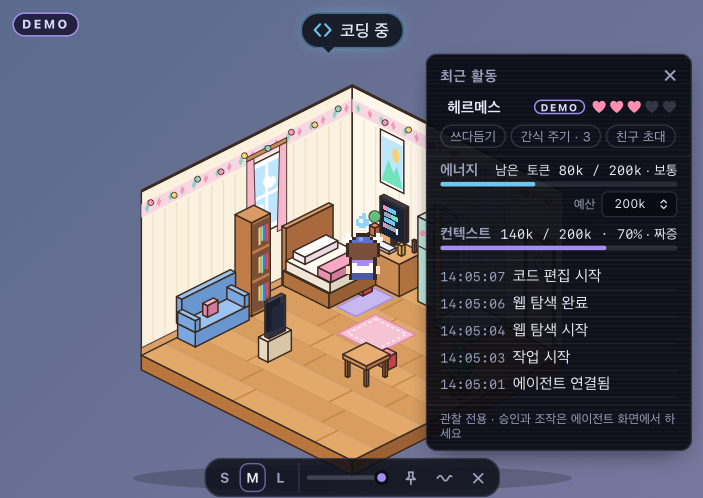
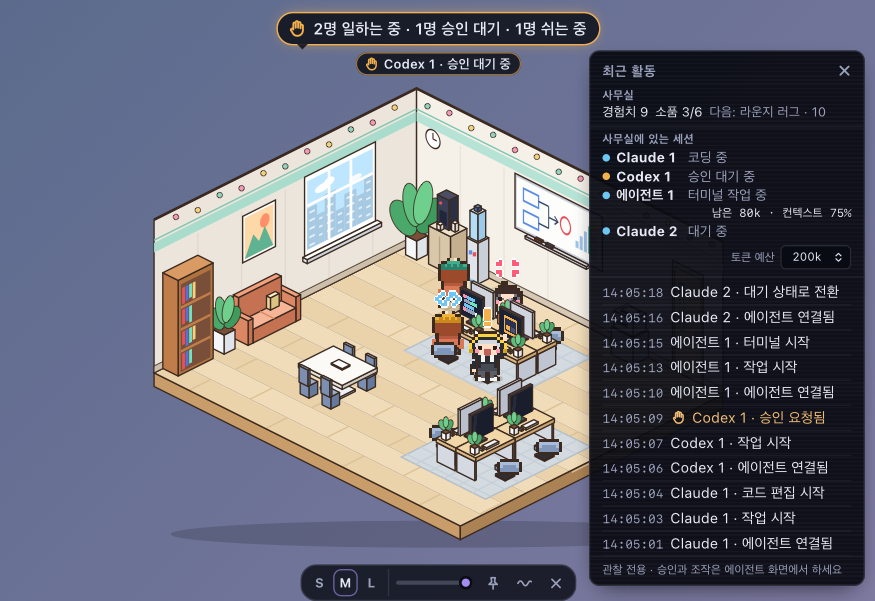
docs: the office society — README, images, state (T81)
- README rewritten around the office: sessions as employees, lounge,
  conversations, summary bubble, per-session energy/anger, office
  growth, Claude Code connection; new images rendered from the real
  OfficeRoom/App markup (pet-care image removed)
- PROJECT_STATE: M12 done, verify 1443 tests + 21 Rust tests, native
  check of the office with this Claude Code session at desk 1

diff --git a/README.md b/README.md
@@ -1,44 +1,34 @@
 # Deskling
 
-AI 에이전트가 실제로 일하는 모습을 바탕화면에 박힌 밝은 아이소메트릭 픽셀 미니룸 속 펫 "헤르메스"의 모습으로 보여주는 macOS 데스크톱 앱.
+AI 에이전트 세션들이 실제로 일하는 모습을, 바탕화면에 박힌 작은 아이소메트릭 픽셀 **사무실**의 직원들로 보여주는 macOS 데스크톱 앱.
 
-> **상태:** MVP 화면(11개 상태, 활동 패널, 창 설정), 생활감(에너지·화남), 키우기, 미니룸(헤르메스의 일상), **세션 친구**(Claude·Codex 세션마다 친구 한 명, 세션 사이 대화)가 동작한다.
-> **Claude Code는 실제로 연결된다**(훅 → 앱, 동의 후 설치). Hermes·Codex의 실제 연결은 아직이며, 그 부분은 결정적 **데모**("방 친구들")로 보여준다. 데모가 보이는 동안에는 항상 `DEMO` 배지가 표시된다.
+> **상태:** 사무실 사회(세션마다 직원 한 명), 세션 사이 대화, 사무실 성장, 활동 패널, 창 설정이 동작한다.
+> **Claude Code는 실제로 연결된다**(훅 → 앱, 동의 후 설치). Codex·Hermes 등의 실제 연결은 아직이며, 그 부분은 결정적 **데모**("사무실 하루")로 보여준다. 데모가 보이는 동안에는 항상 `DEMO` 배지가 표시된다.
 > 진행 상황과 검증 기록은 [PROJECT_STATE.md](PROJECT_STATE.md)에 있다.
 
-![헤르메스의 방 — 샤워하는 헤르메스와 일하는 친구, 세션끼리 대화, 승인 대기·오류 알림, 잠든 헤르메스와 밤샘하는 친구](docs/images/room-moods.png)
+![사무실 — 책상에서 일하는 직원들, 라운지, 도우미 봇, 해금된 소품](docs/images/room-moods.png)
 
-헤르메스의 사생활을 엿보는 미니룸. 헤르메스가 쉬는 동안에도 Claude·Codex 세션 친구들은 자기 방석에서 일하고(왼쪽 위), 세션끼리 메시지를 보내면 서로 돌아보며 이야기하고(오른쪽 위), 승인을 기다리는 친구는 일어나 손을 흔든다(왼쪽 아래). 헤르메스가 연결되어 있지 않으면 불 끄고 자고, 친구는 밤샘한다(오른쪽 아래).
+세션 하나가 직원 한 명이다. 일하는 세션은 자기 책상에서 모니터를 보고, 승인을 기다리면 일어나 손을 흔들고, 쉬는 세션은 라운지로 간다.
 
 ## 무엇을 하나
 
-- 투명하고 프레임 없는 창에 밝은 아이소메트릭 픽셀 미니룸(크림색 벽, 나무 바닥, 침대·컴퓨터 책상·샤워 부스·냉장고·식탁·TV·소파·책장·문)을 띄우고, 그 안에서 펫 헤르메스가 걸어 다닌다.
-- 에이전트 이벤트를 받아 `offline`, `idle`, `thinking`, `coding`, `browsing`, `terminal`, `file-work`,
-  `waiting-approval`, `delegated`, `success`, `error` 상태를 헤르메스의 행동·이모트·모니터 화면·말풍선 텍스트로 보여준다.
-  - 작업 상태(생각·코딩·웹 탐색·터미널·파일 작업·오류)에서는 컴퓨터 책상으로 간다.
-  - 승인 대기면 방 앞으로 나와 손을 흔든다. 위임되면 도우미가 와서 옆자리 노트북 앞에서 돕는다.
-  - 오프라인이면 방 불이 꺼지고 침대에서 잔다.
-- **대기 중에는 자기 일상:** 샤워, 밥, TV, 책, 창밖 보기, 스트레칭, 화분 물주기, 낮잠. 이것은 펫의 생활이지 에이전트에 대한 정보가 아니며, 대기 중에는 컴퓨터를 쓰지 않는다.
-- **세션 = 친구:** 헤르메스는 집주인이고, Claude Code·Codex 세션은 세션마다 친구 한 명이다(Claude 1, Claude 2, Codex 1 …, 모자·헤드폰 색으로 구분).
-  친구는 세션이 시작되면 문으로 들어와 방석에 앉아 노트북으로 자기 세션의 상태를 그대로 보이고(코딩·생각·승인 대기면 손 흔들기·성공·오류), 세션이 끝나면 나간다. 방석은 4개, 그 이상은 패널에만.
+- **세션 = 직원:** Claude Code·Codex 등 에이전트 세션마다 직원 한 명(Claude 1, Claude 2, Codex 1, 에이전트 1 …). 비니·후드+헤드폰·안경+카디건으로 종류를, 모자·헤드폰·목걸이 색으로 번호를 구분한다.
+  세션이 시작되면 문으로 들어와 빈 책상(8개)에 앉고, 끝나면 문으로 나간다. 아무도 없으면 사무실 불이 꺼진다.
+- **자기 세션의 사실만 보인다:** 생각·코딩·웹 탐색·터미널·파일 작업은 책상에서(모니터에 상태 화면), 승인 대기는 일어나 손 흔들기, 오류는 머리 감싸기,
+  위임은 책상 옆 도우미 봇, 완료는 잠깐 환호. **대기 중이면 라운지**(커피머신·정수기·소파·창가·화분)로 가서 쉬고, 일이 오면 책상으로 돌아온다.
 - **세션끼리 대화:** 한 세션이 다른 세션에 실제로 메시지를 보내면 둘이 서로 돌아보고 "…" 말풍선을 주고받는다. 받는 쪽을 모르면 보낸 쪽 머리 위에 편지가 뜬다. 내용은 절대 보이지 않는다.
-- **에너지 = 남은 토큰:** 정한 예산(기본 200k) 대비 남은 토큰이 줄면 책상에 빈 에너지 캔이 쌓이고, 걸음이 느려지고, 바닥나면 배터리 이모트가 뜬다.
-- **화남 = 컨텍스트:** 컨텍스트 창이 찰수록 머리 위 이모트가 땀 → 핏줄 → 김으로 바뀐다.
-- **바탕화면에서 키우기:** 에이전트가 작업을 하나 끝낼 때마다 경험치가 쌓여 아기 → 어린이 → 어른으로 자라고, 방에 포스터·화분·줄 조명·러그·책·트로피가 하나씩 생긴다.
-  패널에서 이름을 지어 주고 쓰다듬거나 간식을 주면 하트가 떠오르고 애정도가 오른다(에이전트에는 아무 영향 없음). 데모로 자란 펫은 실제 에이전트 펫과 따로 저장된다.
-- 장면에는 숫자를 그리지 않는다. 캐릭터를 클릭하면 열리는 활동 패널에 남은 토큰·컨텍스트 숫자와 최근 활동이 나온다.
-- 활동 패널에는 방에 있는 세션 목록과, 세션 이름이 붙은 최근 활동("Claude 1 · 코드 편집 시작", "Claude 1 → Codex 1 메시지")이 나온다. 친구가 승인을 기다리거나 실패하면 말풍선 아래 작은 알림이 뜬다.
-- 창은 기본적으로 바탕화면 위, 다른 창 아래에 박혀 있고 Dock·⌘Tab에 나타나지 않는다. 툴바의 "위에 띄우기"로 항상 위 표시를 켤 수 있다. 드래그 이동, 크기·투명도 조절, reduced-motion(걷기 대신 순간 이동)을 지원한다. 기본 창 크기는 480×340.
+- **사무실 요약 말풍선:** "3명 일하는 중 · 1명 승인 대기 · 2명 쉬는 중" / "아무도 없음". 누르면 활동 패널이 열린다. 누가 승인을 기다리거나 실패하면 그 아래 알림 줄.
+- **에너지·화남(세션별):** 보고된 토큰이 예산을 소모할수록 그 직원 책상에 빈 캔이 쌓이고, 컨텍스트가 찰수록 머리 위 이모트가 땀 → 핏줄 → 김. 숫자는 패널에만.
+- **사무실 성장:** 어느 세션이든 작업을 끝낼 때마다 경험치가 쌓여 포스터·책상 화분·줄 조명·라운지 러그·책장·트로피 선반이 하나씩 생긴다. 데모와 실제는 따로 저장.
+- 창은 기본적으로 바탕화면 위, 다른 창 아래에 박혀 있고 Dock·⌘Tab에 나타나지 않는다. "위에 띄우기", 드래그, 크기(S/M/L)·투명도, reduced-motion(걷기 대신 순간 이동)을 지원한다. 기본 창 640×440.
 
-### 세션 친구
+### 라운지와 대화
 
-![헤르메스와 Claude·Codex 세션 친구들 — 대화 중](docs/images/session-friends.png)
-
-데모 "방 친구들": 헤르메스가 Claude 2와 대화하고(서로 돌아보며 "…"), Codex 1과 Claude 1은 자기 방석에서 노트북으로 일한다.
+![라운지에서 쉬는 직원들 — 커피, 정수기, 소파, 창가](docs/images/session-friends.png)
 
 ### Claude Code 연결
 
-Claude Code 세션을 실제로 방에 들이려면 훅을 설치한다(사용자 설정 `~/.claude/settings.json`에 Deskling 항목만 덧붙이고, 먼저 백업을 만든다).
+Claude Code 세션을 실제로 사무실에 들이려면 훅을 설치한다(사용자 설정 `~/.claude/settings.json`에 Deskling 항목만 덧붙이고, 먼저 백업을 만든다).
 
 ```bash
 npm run hooks:status     # 설치 여부·소켓 확인 (아무것도 바꾸지 않음)
@@ -48,30 +38,23 @@ npm run hooks:uninstall  # Deskling 항목만 제거
 
 - 훅은 세션 ID·이벤트 종류·도구 범주(코드/파일/터미널/웹/위임/메시지)만 앱의 Unix 소켓(본인만 접근, 0600)으로 보낸다.
   프롬프트·명령·파일 경로·도구 입력/결과·대화 기록은 읽지도 보내지도 않는다. 출력이 없고, 앱이 꺼져 있으면 조용히 끝난다.
-- 패널의 **보기: 자동 / 실제 / 데모** — 자동은 실제 세션이 말하기 전까지 데모를 보여 주다가 실제 방으로 바뀐다(DEMO 배지 사라짐).
-- Claude Code는 토큰·컨텍스트 수치를 대화 기록에서만 얻을 수 있어 읽지 않는다. 그래서 Claude 친구의 에너지·화남은 표시하지 않는다.
+- 패널의 **보기: 자동 / 실제 / 데모** — 자동은 실제 세션이 말하기 전까지 데모를 보여 주다가 실제 사무실로 바뀐다(DEMO 배지 사라짐).
+- Claude Code는 토큰·컨텍스트 수치를 대화 기록에서만 얻을 수 있어 읽지 않는다. 그래서 Claude 직원의 에너지·화남은 표시하지 않는다.
 - 자세한 매핑: [docs/integrations/CLAUDE_CODE.md](docs/integrations/CLAUDE_CODE.md).
 
-### 11개 상태
+### 직원의 상태
 
-상태마다 헤르메스의 행동·이모트·말풍선 텍스트·모니터 화면이 다르다.
-데모 시나리오는 활동 패널에서 고른다: **전체 상태**(11개 상태 순서대로), **기본 흐름**(`idle → thinking → coding → terminal → success → idle`), **하루 일과**(대기 일상 → 일 → 지치고 화남 → 다시 쉼 → 잠).
+![책상에서: 코딩·웹·터미널·파일·생각·승인 대기·오류·위임 / 라운지·환호·대화](docs/images/all-states.png)
 
-![11개 상태](docs/images/all-states.png)
-
-(그림은 실제 `MiniRoom` 마크업을 WebKit으로 렌더링한 것. 대기 칸의 일상은 그중 하나인 책 읽기.)
+데모 시나리오는 활동 패널에서 고른다: **사무실 하루**(Claude 3 · Codex 2 · 에이전트 1이 오가며 일하고 쉬고 대화, 기본), **전체 상태**(한 명이 11개 상태를 차례로), **기본 흐름**, **하루 일과**.
+(그림은 실제 `OfficeRoom` 마크업을 WebKit으로 렌더링한 것.)
 
 ### 활동 패널과 창 설정
 
-캐릭터를 클릭하면 활동 패널(에너지·컨텍스트 숫자, 토큰 예산, 최근 활동)이, 마우스를 올리면 창 설정 툴바(크기 S/M/L, 불투명도, 위에 띄우기, 모션, 닫기)가 나타난다.
+![사무실 요약·알림 줄·활동 패널](docs/images/panel-and-toolbar.png)
 
-![활동 패널과 툴바](docs/images/panel-and-toolbar.png)
-
-### 키우기
-
-![이름·하트·쓰다듬기·간식](docs/images/pet-care.png)
-
-패널 맨 위 펫 영역에서 이름을 짓고 쓰다듬기·간식으로 애정도(하트)를 올린다. (그림은 "친구 초대" 버튼이 있던 M9 시점. 지금은 친구가 실제 세션이라 그 버튼은 없다.)
+말풍선을 누르면 활동 패널(사무실 경험치·소품·다음 해금, 사무실에 있는 세션과 세션별 남은 토큰·컨텍스트, 토큰 예산, 보기 자동/실제/데모, 최근 활동)이,
+마우스를 올리면 창 설정 툴바(크기 S/M/L, 불투명도, 위에 띄우기, 모션, 닫기)가 나타난다.
 
 ## 하지 않는 것
 
@@ -117,7 +100,7 @@ src/core/       이벤트 규격·정규화·리듀서 (순수 TS)
 src/adapters/   이벤트 소스 (demo, claudeCode; 향후 Hermes·Codex)
 src/platform/   Tauri 창 API·이벤트 수신 래퍼
 src/app/        조립·설정
-src/ui/         미니룸 장면과 패널 컴포넌트
+src/ui/         사무실 장면과 패널 컴포넌트
 src-tauri/      Tauri 2 / Rust 셸, 훅 레코드 Unix 소켓 브리지
 integrations/   Claude Code 훅 스크립트와 설치기
 docs/           제품·요구사항·설계·테스트 문서

diff --git a/PROJECT_STATE.md b/PROJECT_STATE.md
@@ -4,7 +4,7 @@ _마지막 갱신: 2026-11-18_
 
 ## 현재 단계
 
-- **M0–M11 완료.** vertical slice, MVP 화면, 독립 리뷰 반영(T34), 생활감(M7: 에너지·화남·침대·하루 일과 데모),
+- **M0–M12 완료.** vertical slice, MVP 화면, 독립 리뷰 반영(T34), 생활감(M7: 에너지·화남·침대·하루 일과 데모),
   키우기(M8: 완료한 작업 = 경험치, 아기→어린이→어른, 방 꾸미기 해금, 이름·쓰다듬기·간식)가 동작한다.
 - **M9 미니룸(ADR-019~021):** 어두운 작업실을 밝은 아이소메트릭 픽셀 미니룸으로 교체했다. 헤르메스가 방을 걸어 다니며 대기 중 일상(샤워·밥·TV·책·창밖·스트레칭·물주기·낮잠·친구 초대)을 살고,
   에이전트 상태가 필수 행동을 정한다(작업 → 책상, 승인 대기 → 방 앞에서 손 흔들기, 위임 → 친구 도우미, 오프라인 → 불 끄고 잠). 일상은 펫의 생활이며 에이전트에 대한 주장이 아니다(ADR-020).
@@ -14,6 +14,9 @@ _마지막 갱신: 2026-11-18_
   세션별 커서·사실·사용량(ADR-014 대체), 방석 4개, 들어오기/나가기, 자기 상태만 표시, `session.message`로 실제 대화(말풍선) 또는 편지, 패널 세션 목록·알림 줄, 데모 "방 친구들". 동네 친구·친구 초대는 없앴다.
 - **M11 Claude Code 실제 연결(ADR-024):** 훅 스크립트 → Unix 소켓(0600) → Rust 엄격 검증 → Tauri 이벤트 → TS 번역 → 재정규화. 보기 자동/실제/데모.
   사용자 동의를 받아 2026-11-19 훅 설치(백업 `~/.claude/settings.json.deskling-backup-20261119-011220`, 기존 훅 핸들러 34개 그대로). 제거는 `npm run hooks:uninstall`.
+- **M12 사무실 사회(ADR-025):** 침실·헤르메스·펫 키우기를 걷어내고 원본 아이소메트릭 픽셀 사무실(640×440, 책상 8개, 회의 테이블, 커피머신, 정수기, 소파, 책장, 화이트보드, 프린터)로 바꿨다.
+  모든 세션이 직원 한 명 — 책상에서 자기 상태대로 일하고, 승인 대기면 손 흔들고, 대기면 라운지로 가서 쉬고, 끝나면 나간다. 격자 A* 걷기. 말풍선은 사무실 요약이자 패널 버튼.
+  세션별 에너지·화남, 사무실 성장(소품 해금), 직원 모습 3종(Claude·Codex·에이전트). 데모 "사무실 하루".
 - 이벤트 규격은 v3(v2 `usage.reported`, v3 `claude-code`·`codex` 종류와 `session.message`). 방 모양은 ADR-019가 ADR-017을 대체했다(이전 400×260 디오라마).
 - Hermes·Codex와는 아직 실제로 연결되지 않았다(데모로 표현). 데모가 보이는 동안에는 항상 DEMO 배지를 보인다.
 
@@ -31,12 +34,15 @@ _마지막 갱신: 2026-11-18_
 
 | 명령 | 결과 |
 | --- | --- |
-| `npm run verify` (Node 24) | 통과 — typecheck, lint(경고 0), **1388 tests / 38 files**, vite build, cargo fmt·clippy(`-D warnings`)·**test 21개** (M11 완료 시점, 2026-11-19) |
+| `npm run verify` (Node 24) | 통과 — typecheck, lint(경고 0), **1443 tests / 38 files**, vite build, cargo fmt·clippy(`-D warnings`)·**test 21개** (M12 완료 시점, 2026-11-19) |
 | `npm run verify:fast` (Node 23.11) | 통과 — 334 tests (T34 이전 시점). Node 23은 EBADENGINE 경고만 남 |
 | `npm run build:app` | 통과 — `src-tauri/target/release/bundle/macos/Deskling.app` (9.7 MiB, arm64, 번들 ad-hoc 서명 + hardened runtime, `codesign --verify --deep --strict` 통과, M9 실행·렌더링·바탕화면 층 확인, 2026-11-19) |
 | `npm run tauri dev` | 실행됨 — 투명 창, layer 5(항상 위), M6 시점 11개 상태 네이티브 캡처, M7은 DOM 프로브 |
 
 ### 네이티브 확인 내역
+
+- **M12 (release 번들 + 실제 Claude Code):** 사무실 창이 바탕화면 층(layer −1)에 뜨고, 이 개발 세션이 Claude 1 직원으로 1번 책상에 앉아 터미널 작업 중인 것과
+  요약 말풍선 "1명 일하는 중"을 창 캡처로 확인(자동 모드 → 실제 사무실, DEMO 배지 없음). 패널 세션 줄이 글자를 한 글자씩 세로로 접던 문제를 WebKit 렌더에서 발견해 고쳤다.
 
 - **M11 (release 번들 + 실제 Claude Code):** 앱 데이터 폴더 0700, 소켓 `agent-events.sock` 0600 생성. 훅 설치 직후 **이 개발 세션(Claude Code) 자신이 Claude 1 친구로 방에 들어와**
   방석에서 노트북으로 일하는 것을 창 캡처로 확인 — 자동 모드가 실제 방으로 바뀌어 DEMO 배지 없음, 헤르메스는 미연결이라 불 끄고 잠. 창 layer −1, UIElement.

diff --git a/docs/TASKS.md b/docs/TASKS.md
@@ -137,7 +137,7 @@
 - [x] **T78** core: 사무실 배치(책상 8·라운지·문)와 격자 경로 탐색, 사무실 엔진(입장·책상·라운지·손 흔들기·환호·도우미·퇴장·대화) — §2, §3, §4
 - [x] **T79** ui: 에이전트 원본 모습, 모든 종류의 책상(뒤돌아) 포즈, 라운지 포즈(커피·소파·창가), 도우미 봇, 커피 이모트 — §1, §3
 - [x] **T80** ui/app: 사무실 장면, 요약 말풍선 버튼, 세션별 에너지·화남, 패널(세션 줄 숫자·사무실 성장), 640×440, 데모 갱신, 헤르메스·침실 제거, DESIGN — §2–§8
-- [ ] **T81** 화면 검증·문서·verify·build·push·실행
+- [x] **T81** 화면 검증·문서·verify·build·push·실행
 
 ## 백로그 (vertical slice 이후, 각각 ADR 먼저)
 
